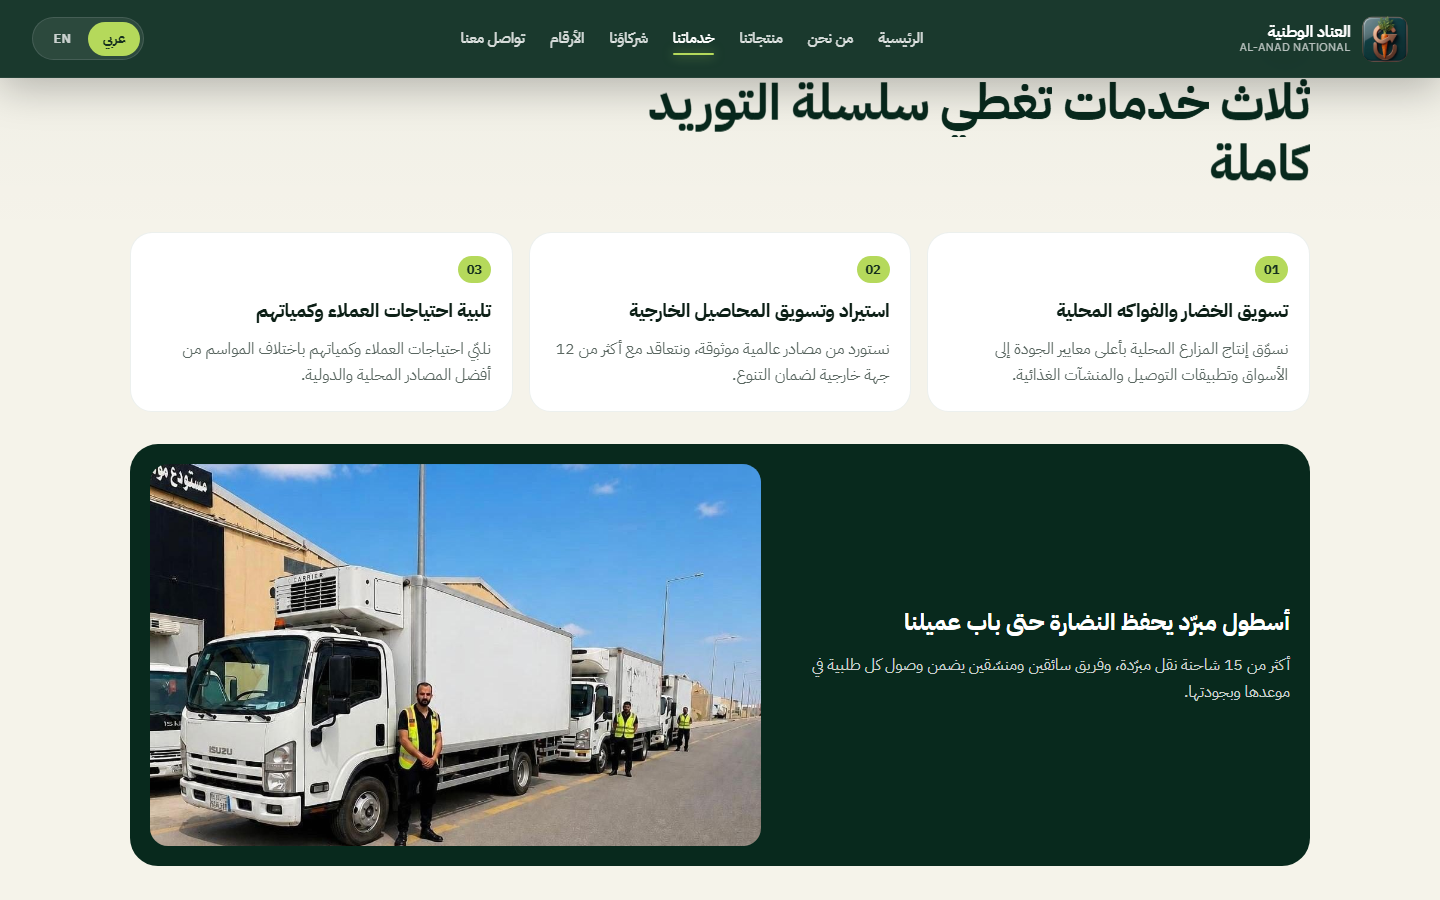
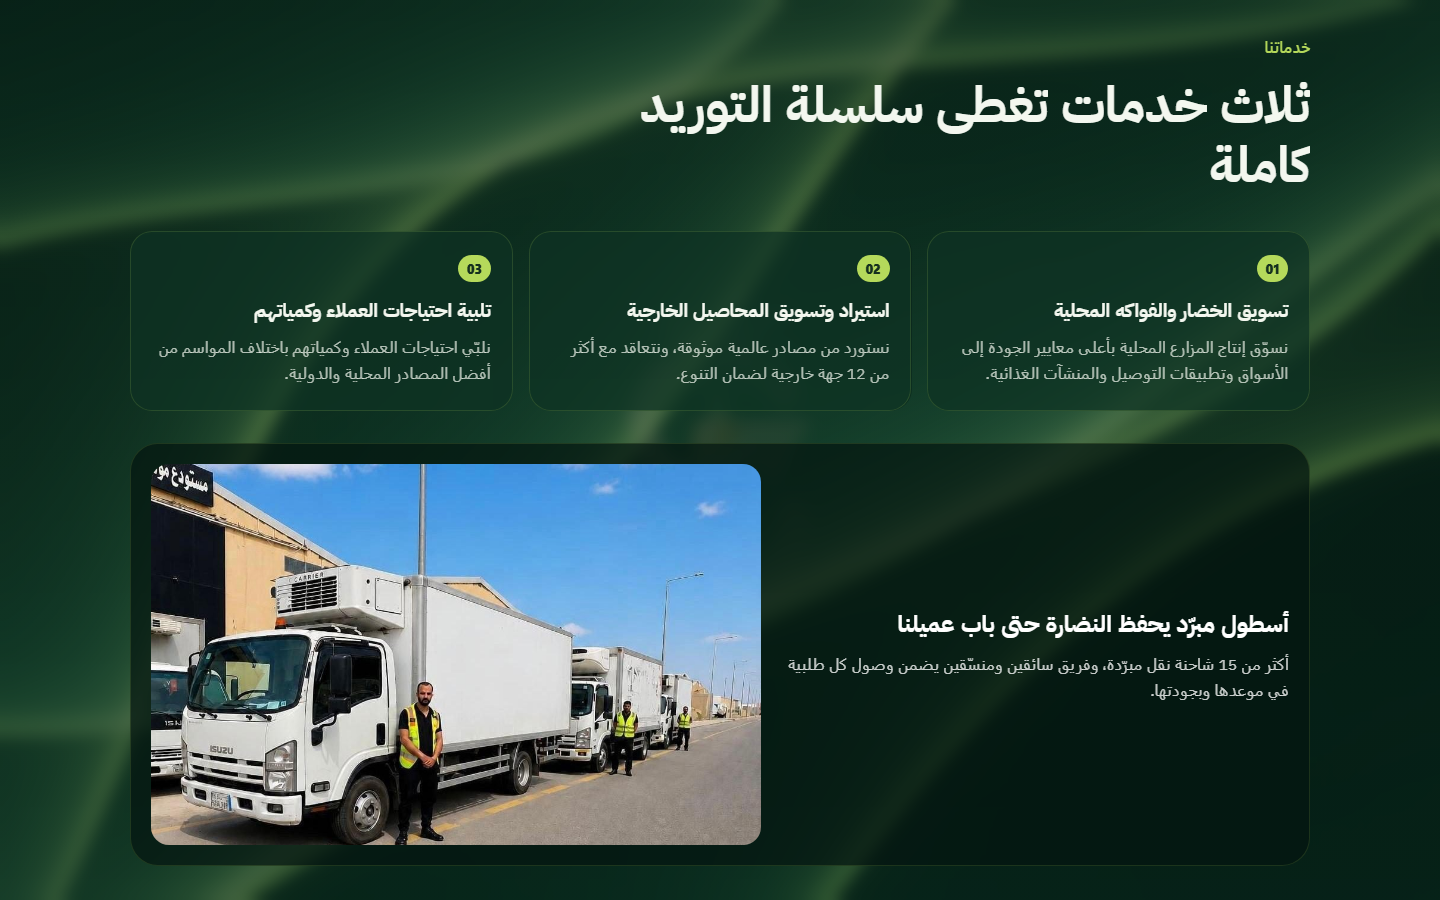
style: continuous dark-green cinematic UI — no ivory/white section fills

diff --git a/src/styles/main.css b/src/styles/main.css
@@ -3,16 +3,19 @@
   --deep: #08291d;
   --lime: #b5d95b;
   --lime-ink: #16301f;
-  --ivory: #f5f3ea;
   --gold: #e5a83e;
   --white: #ffffff;
-  --mist: #e8eee6;
-  --ink: #0c1f16;
-  --muted: rgba(12, 31, 22, 0.68);
+  /* dark cinematic surfaces — no ivory/white fills */
+  --panel: rgba(8, 41, 29, 0.55);
+  --panel-strong: rgba(6, 28, 20, 0.72);
+  --card: rgba(18, 61, 43, 0.42);
+  --card-border: rgba(181, 217, 91, 0.16);
+  --ink: #f3f7ef;
+  --muted: rgba(243, 247, 239, 0.72);
   --glass: rgba(8, 41, 29, 0.55);
   --radius: 22px;
   --radius-sm: 14px;
-  --shadow: 0 24px 60px rgba(8, 41, 29, 0.22);
+  --shadow: 0 24px 60px rgba(0, 0, 0, 0.35);
   --font-ar: 'IBM Plex Sans Arabic', 'Segoe UI', Tahoma, sans-serif;
   --font-en: 'Manrope', 'IBM Plex Sans Arabic', sans-serif;
   --nav-h: 78px;
@@ -71,7 +74,7 @@ body {
   inset: 0;
   display: grid;
   place-items: center;
-  opacity: 0.38;
+  opacity: 0.34;
   mix-blend-mode: screen;
   mask-image: radial-gradient(ellipse 58% 62% at 50% 42%, #000 18%, transparent 72%);
   -webkit-mask-image: radial-gradient(ellipse 58% 62% at 50% 42%, #000 18%, transparent 72%);
@@ -108,8 +111,8 @@ body {
   position: absolute;
   inset: 0;
   background:
-    linear-gradient(180deg, rgba(8, 41, 29, 0.25) 0%, transparent 28%, rgba(8, 41, 29, 0.35) 100%),
-    radial-gradient(ellipse at center, transparent 30%, rgba(8, 41, 29, 0.45) 100%);
+    linear-gradient(180deg, rgba(8, 41, 29, 0.2) 0%, transparent 32%, rgba(8, 41, 29, 0.22) 100%),
+    radial-gradient(ellipse at center, transparent 40%, rgba(8, 41, 29, 0.28) 100%);
 }
 
 header.nav,
@@ -186,7 +189,7 @@ textarea {
   display: inline-flex;
   align-items: center;
   gap: 0.45rem;
-  color: var(--forest);
+  color: var(--lime);
   font-weight: 600;
   letter-spacing: 0.02em;
   margin: 0 0 0.75rem;
@@ -198,7 +201,7 @@ textarea {
   margin: 0 0 0.85rem;
   font-weight: 700;
   letter-spacing: -0.02em;
-  color: var(--deep);
+  color: var(--ink);
 }
 
 .lead {
@@ -240,13 +243,13 @@ textarea {
 
 .btn--outline {
   background: transparent;
-  color: var(--forest);
-  border-color: rgba(18, 61, 43, 0.28);
+  color: var(--ink);
+  border-color: rgba(181, 217, 91, 0.4);
 }
 
 .btn--outline:hover {
-  border-color: var(--forest);
-  background: rgba(18, 61, 43, 0.05);
+  border-color: var(--lime);
+  background: rgba(181, 217, 91, 0.1);
 }
 
 /* Preloader */
@@ -446,6 +449,12 @@ textarea {
   background: #fff;
 }
 
+.jstep h3,
+.svc h3,
+.pillar h3 {
+  color: var(--ink);
+}
+
 html[dir='rtl'] .btn__arrow {
   transform: scaleX(-1);
 }
@@ -619,7 +628,9 @@ html[dir='ltr'] .hero__content {
 
 /* About */
 .about {
-  background: linear-gradient(180deg, rgba(245, 243, 234, 0.92), rgba(255, 255, 255, 0.88));
+  background: linear-gradient(180deg, rgba(8, 41, 29, 0.58), rgba(6, 28, 20, 0.5));
+  color: var(--ink);
+  border-top: 1px solid rgba(181, 217, 91, 0.12);
   margin-top: -2.5rem;
   border-radius: 48px 48px 0 0;
   z-index: 7;
@@ -693,7 +704,7 @@ html[dir='ltr'] .hero__content {
   display: inline-flex;
   align-items: baseline;
   gap: 0.55rem;
-  color: var(--forest);
+  color: rgba(243, 247, 239, 0.8);
 }
 
 .about__since b {
@@ -712,8 +723,11 @@ html[dir='ltr'] .hero__content {
 .pillar {
   padding: 1.1rem 1.15rem;
   border-radius: 18px;
-  background: linear-gradient(160deg, #f7faf4, #eef4ea);
-  border: 1px solid rgba(18, 61, 43, 0.08);
+  background: var(--card);
+  border: 1px solid var(--card-border);
+  backdrop-filter: blur(10px);
+  -webkit-backdrop-filter: blur(10px);
+  color: var(--ink);
 }
 
 .pillar__icon {
@@ -741,7 +755,8 @@ html[dir='ltr'] .hero__content {
 
 /* Journey */
 .journey {
-  background: linear-gradient(180deg, rgba(247, 250, 245, 0.82), rgba(245, 243, 234, 0.78));
+  background: linear-gradient(180deg, rgba(6, 28, 20, 0.55), rgba(8, 41, 29, 0.48));
+  color: var(--ink);
   backdrop-filter: blur(8px);
   -webkit-backdrop-filter: blur(8px);
 }
@@ -809,7 +824,8 @@ html[dir='ltr'] .hero__content {
 
 /* Products */
 .products {
-  background: rgba(255, 255, 255, 0.86);
+  background: linear-gradient(180deg, rgba(8, 41, 29, 0.52), rgba(6, 28, 20, 0.48));
+  color: var(--ink);
   backdrop-filter: blur(8px);
   -webkit-backdrop-filter: blur(8px);
 }
@@ -875,9 +891,14 @@ html[dir='ltr'] .hero__content {
   width: min(360px, 100%);
   height: 46px;
   border-radius: 999px;
-  border: 1px solid rgba(18, 61, 43, 0.18);
+  border: 1px solid rgba(181, 217, 91, 0.25);
   padding: 0 1rem;
-  background: #fff;
+  background: rgba(8, 41, 29, 0.65);
+  color: var(--ink);
+}
+
+.catalog__toolbar input::placeholder {
+  color: rgba(243, 247, 239, 0.45);
 }
 
 .catalog__grid {
@@ -887,10 +908,11 @@ html[dir='ltr'] .hero__content {
 }
 
 .pcard {
-  background: #fff;
+  background: var(--card);
   border-radius: 16px;
   overflow: hidden;
-  border: 1px solid rgba(18, 61, 43, 0.08);
+  border: 1px solid var(--card-border);
+  color: var(--ink);
 }
 
 .pcard img {
@@ -907,7 +929,8 @@ html[dir='ltr'] .hero__content {
 
 /* Services */
 .services {
-  background: linear-gradient(180deg, rgba(245, 243, 234, 0.8), rgba(232, 238, 230, 0.75));
+  background: linear-gradient(180deg, rgba(6, 28, 20, 0.58), rgba(8, 41, 29, 0.52));
+  color: var(--ink);
   backdrop-filter: blur(8px);
   -webkit-backdrop-filter: blur(8px);
 }
@@ -921,9 +944,12 @@ html[dir='ltr'] .hero__content {
 .svc {
   padding: 1.4rem 1.3rem;
   border-radius: 22px;
-  background: #fff;
-  border: 1px solid rgba(18, 61, 43, 0.08);
+  background: var(--card);
+  border: 1px solid var(--card-border);
   min-height: 100%;
+  color: var(--ink);
+  backdrop-filter: blur(8px);
+  -webkit-backdrop-filter: blur(8px);
 }
 
 .svc__n {
@@ -954,9 +980,10 @@ html[dir='ltr'] .hero__content {
   align-items: center;
   padding: 1.25rem;
   border-radius: 28px;
-  background: var(--deep);
+  background: rgba(4, 22, 16, 0.72);
   color: #fff;
   overflow: hidden;
+  border: 1px solid rgba(181, 217, 91, 0.14);
 }
 
 .fleet img {
@@ -978,7 +1005,8 @@ html[dir='ltr'] .hero__content {
 
 /* Clients */
 .clients {
-  background: rgba(255, 255, 255, 0.84);
+  background: linear-gradient(180deg, rgba(8, 41, 29, 0.6), rgba(6, 28, 20, 0.55));
+  color: var(--ink);
   backdrop-filter: blur(8px);
   -webkit-backdrop-filter: blur(8px);
 }
@@ -1004,9 +1032,10 @@ html[dir='ltr'] .hero__content {
   align-items: center;
   padding: 1rem 1.1rem;
   border-radius: 16px;
-  background: linear-gradient(90deg, #f3f7ef, #fff);
-  border: 1px solid rgba(18, 61, 43, 0.07);
+  background: var(--card);
+  border: 1px solid var(--card-border);
   font-weight: 600;
+  color: var(--ink);
 }
 
 .clients__list li span:first-child {
@@ -1019,7 +1048,8 @@ html[dir='ltr'] .hero__content {
 
 /* Partners */
 .partners {
-  background: rgba(245, 243, 234, 0.78);
+  background: linear-gradient(180deg, rgba(6, 28, 20, 0.55), rgba(8, 41, 29, 0.5));
+  color: var(--ink);
   overflow: hidden;
   backdrop-filter: blur(8px);
   -webkit-backdrop-filter: blur(8px);
@@ -1041,11 +1071,11 @@ html[dir='ltr'] .hero__content {
   width: 160px;
   height: 88px;
   border-radius: 16px;
-  background: #fff;
+  background: rgba(18, 61, 43, 0.55);
   display: grid;
   place-content: center;
   padding: 0.75rem 1rem;
-  border: 1px solid rgba(18, 61, 43, 0.08);
+  border: 1px solid rgba(181, 217, 91, 0.18);
 }
 
 .logo-card img {
@@ -1053,6 +1083,7 @@ html[dir='ltr'] .hero__content {
   max-height: 52px;
   object-fit: contain;
   margin: auto;
+  filter: brightness(1.15) contrast(1.05);
 }
 
 @keyframes marquee {
